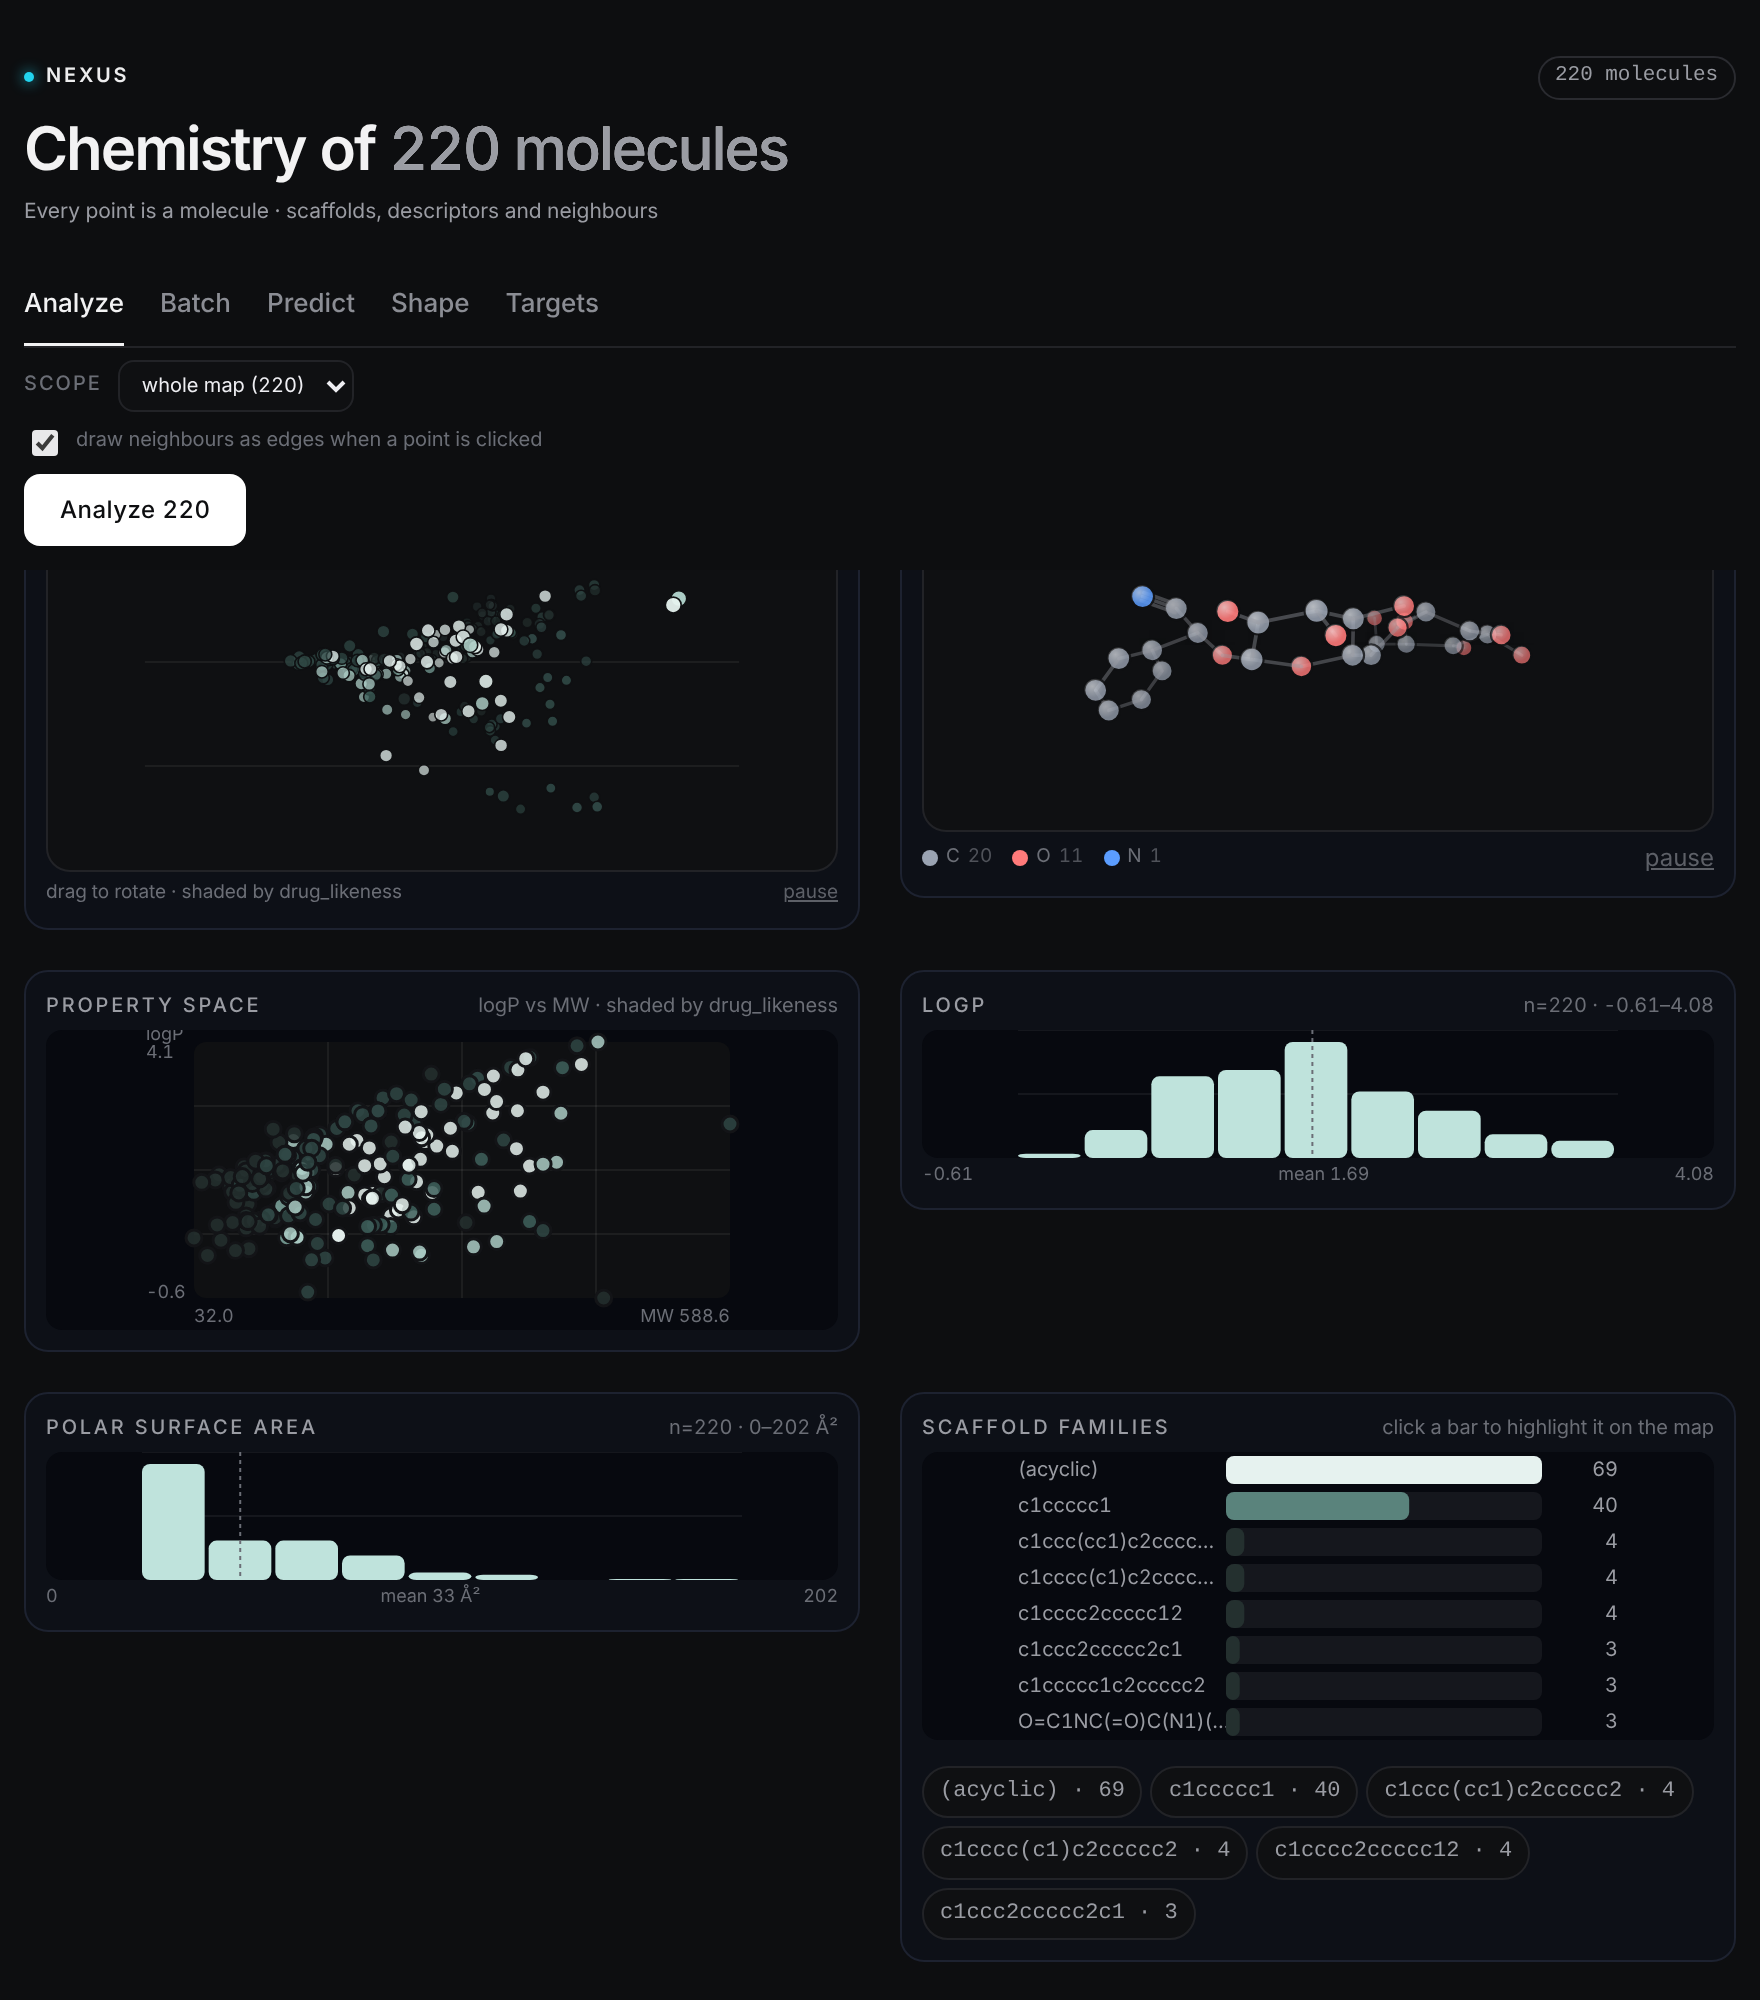
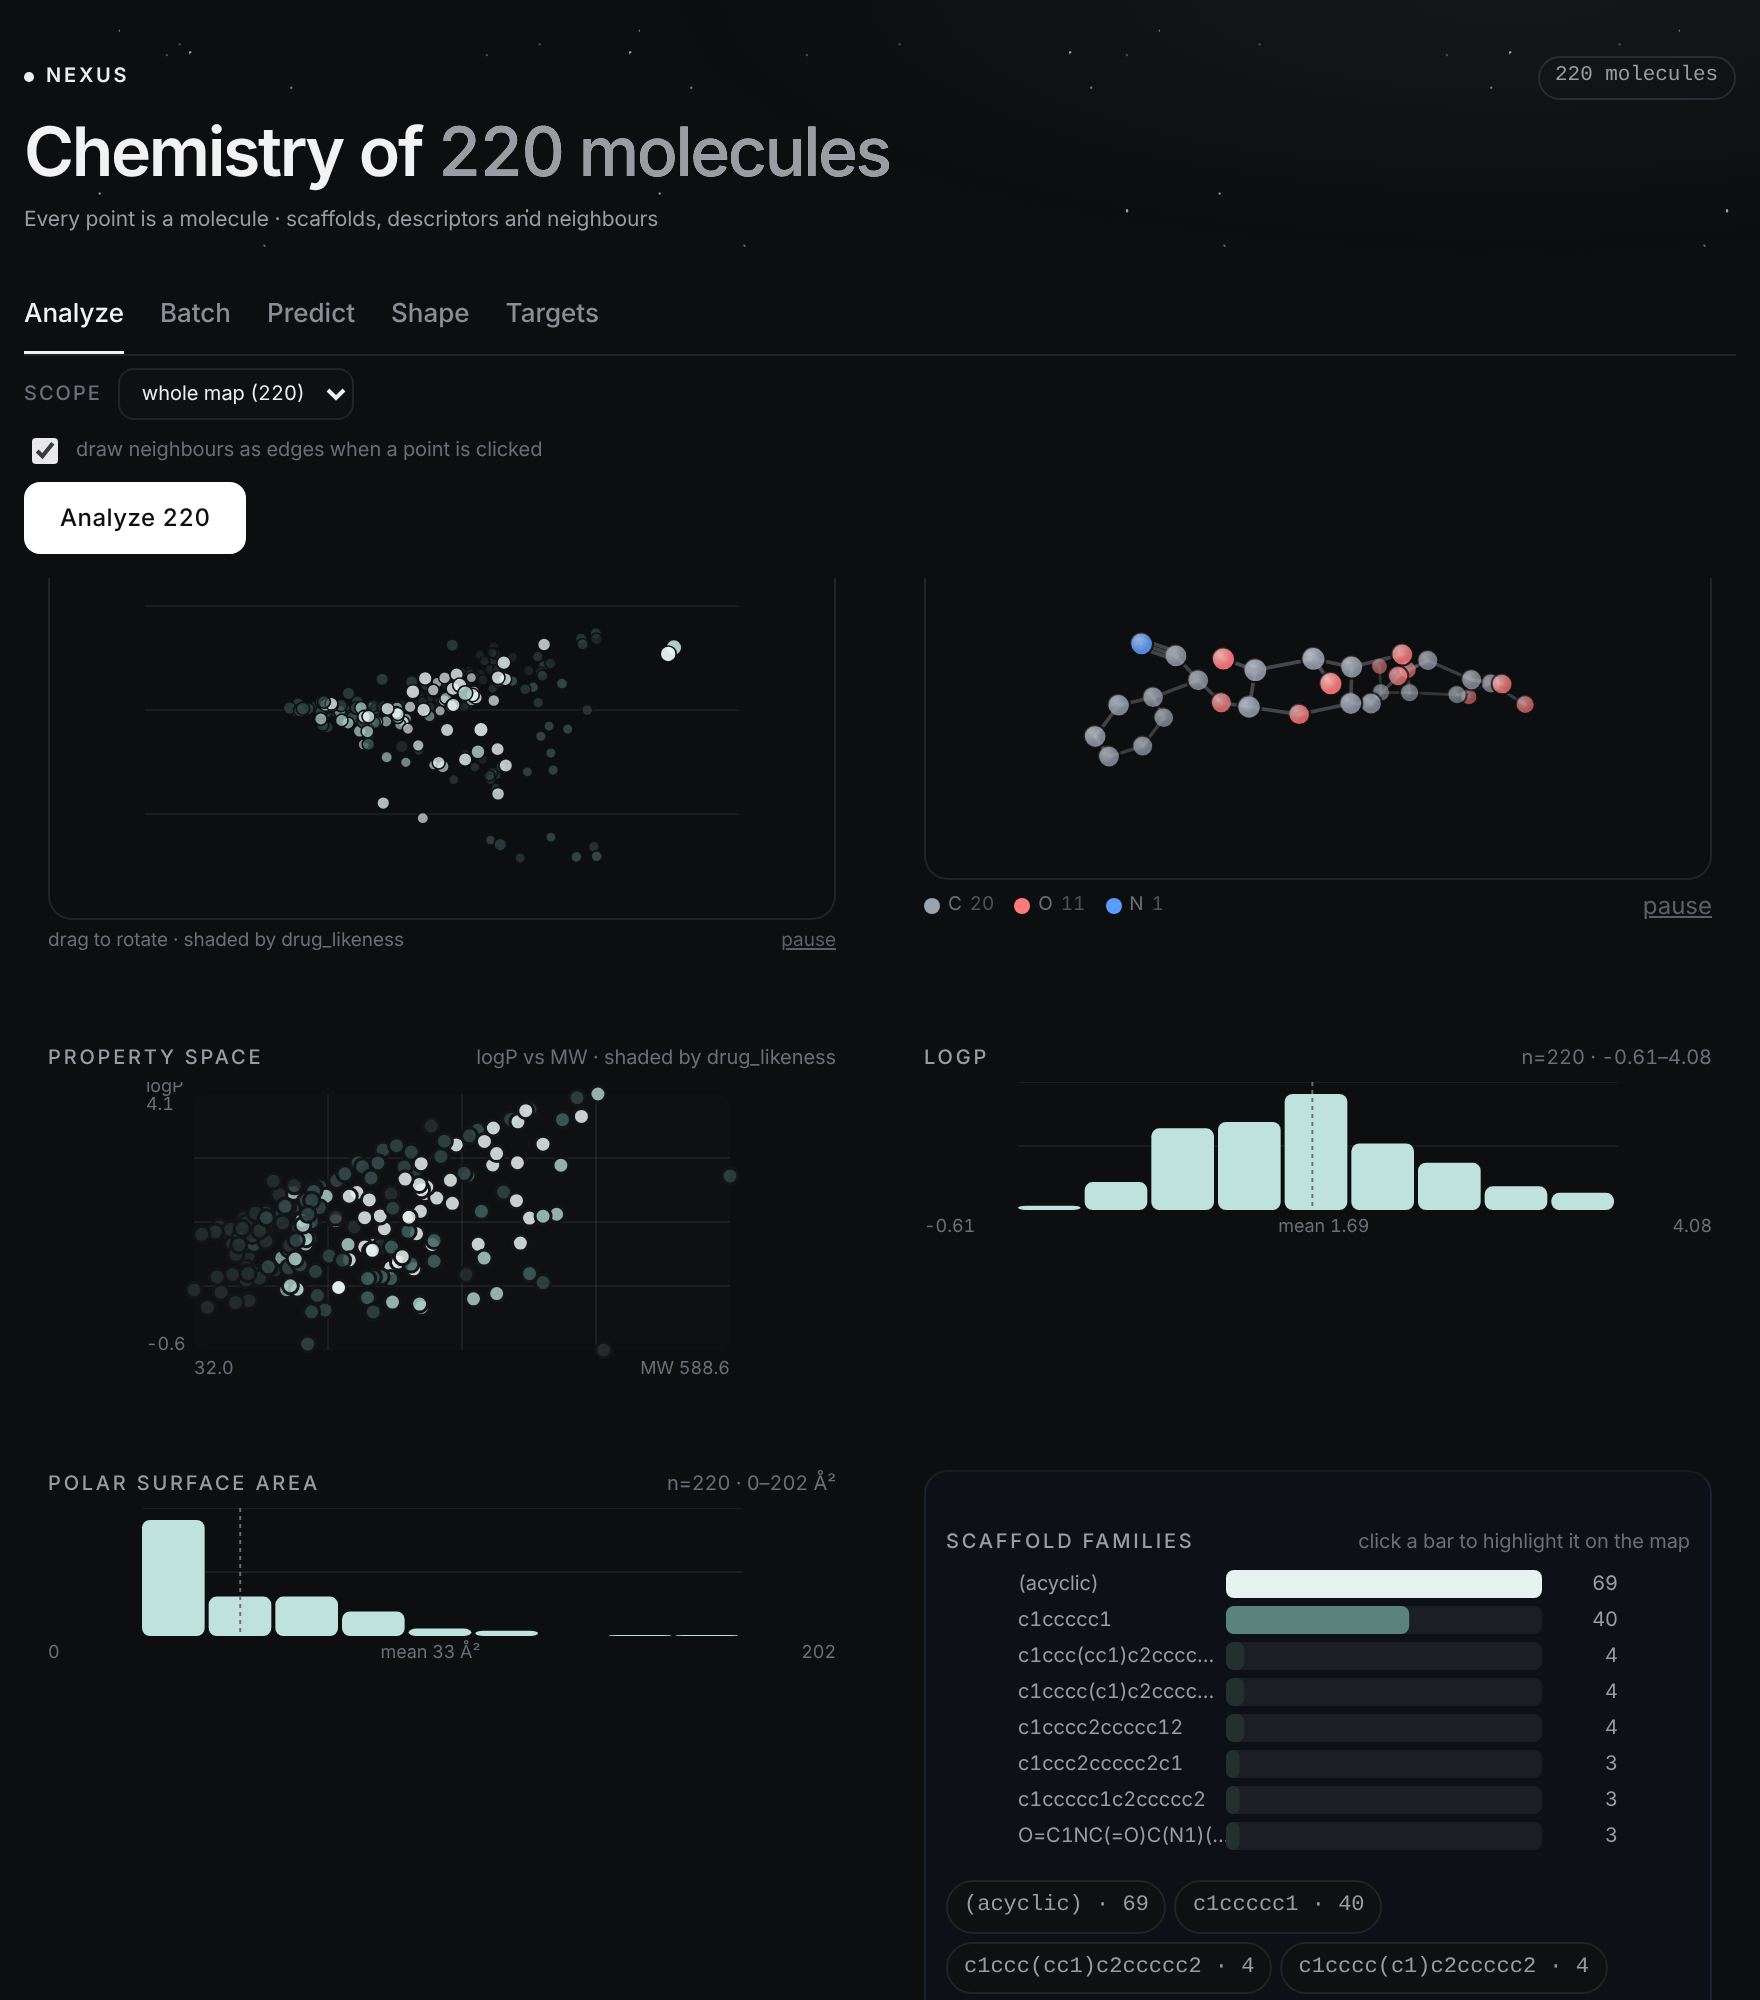
Panel: open layout without cards; fix harness tab selectors
The Batch, Predict and Targets steps timed out because the harness clicked
tabs by stale or ambiguous names ('Next batch'; 'Predict' also matched
'Predict unmeasured'). Match the tab labels exactly. Results now sit on the
page without card chrome, with a single strip of summary figures; colour is
left to the data. Screenshots regenerated.

diff --git a/extension/src/panel.css b/extension/src/panel.css
@@ -726,3 +726,25 @@ body {
 }
 @keyframes nexus-drift { to { background-position: 220px -160px, -260px 200px, 300px 180px, -240px -220px, 280px 150px, -200px 240px, 160px -120px, -180px 140px, 0 0; } }
 @keyframes nexus-twinkle { from { opacity: .4; } to { opacity: .7; } }
+
+/* Open layout: no cards. Sections sit on the page, separated by space and a
+   hairline, so the data carries the colour and nothing else competes with it. */
+.nexus-body > .nexus-stack > section, .nexus-card,
+.nexus-stack > div:has(> svg), .nexus-stack > div:has(canvas) {
+    background: transparent !important; border: 0 !important; box-shadow: none !important;
+    border-radius: 0 !important; padding: 0 !important; margin: 0 !important;
+}
+.nexus-stack { gap: 44px !important; }
+.nexus-stack > * + * { padding-top: 28px !important; border-top: 1px solid #1b1c20 !important; }
+.nexus-stack svg { background: transparent !important; }
+.nexus-body { padding: 8px 24px 40px !important; }
+.nexus-card-head { margin-bottom: 18px !important; }
+
+/* Summary: one strip of four large figures with room around them. */
+.nexus-tiles { border: 0 !important; background: transparent !important; border-radius: 0 !important; padding: 12px 0 !important; }
+.nexus-tiles > * { border: 0 !important; background: transparent !important; padding: 0 !important; }
+.nexus-tiles .tabular-nums, .nexus-tiles strong, .nexus-tiles b { font-size: 34px !important; letter-spacing: -0.035em !important; }
+.nexus-title { font-size: 34px !important; letter-spacing: -0.035em !important; }
+.nexus-eyebrow i { background: #eeeef2 !important; box-shadow: none !important; }
+.nexus-three, .nexus-three > div, .nexus-stack canvas { border: 0 !important; background: transparent !important; }
+.nexus-tiles [style*="color"] { color: #f2f2f3 !important; }
